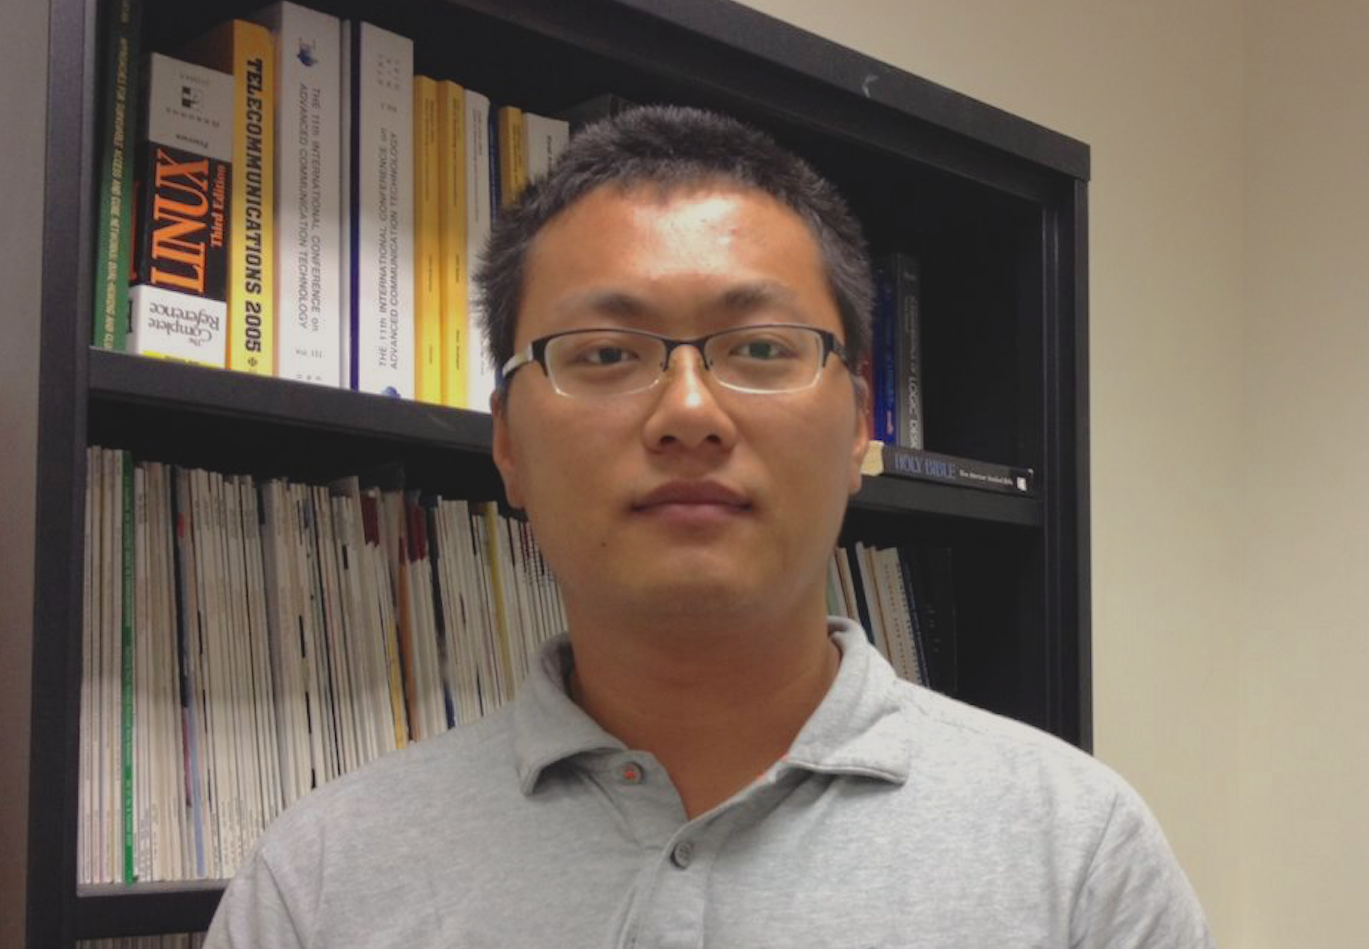
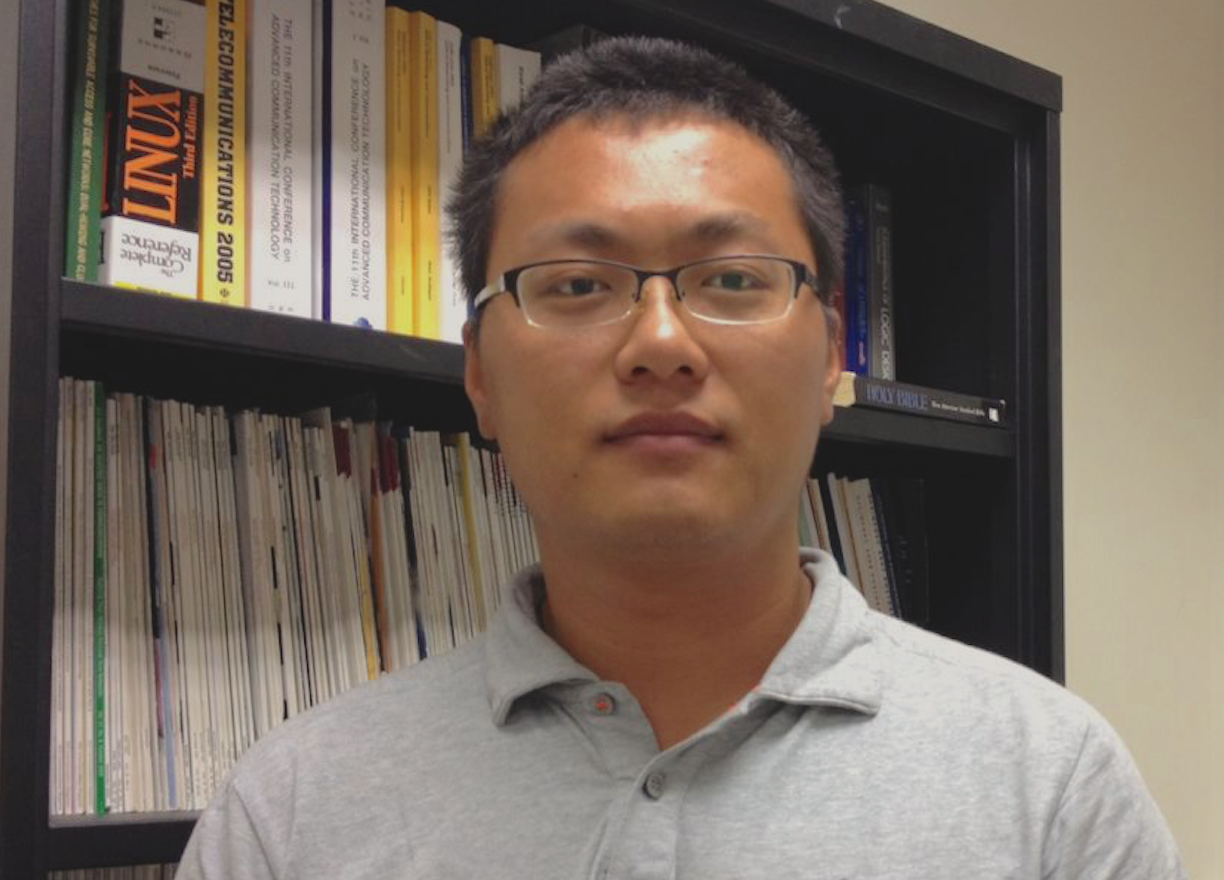
update picture

diff --git a/index.html b/index.html
@@ -24,7 +24,7 @@
                 </address>
                 <hr style="height:5px"  />
 
-                <TITLE>Welcome to my Wonderful Home</TITLE>
+                <TITLE>Jian Kong's website</TITLE>
             </HEAD>
 
             <body>
